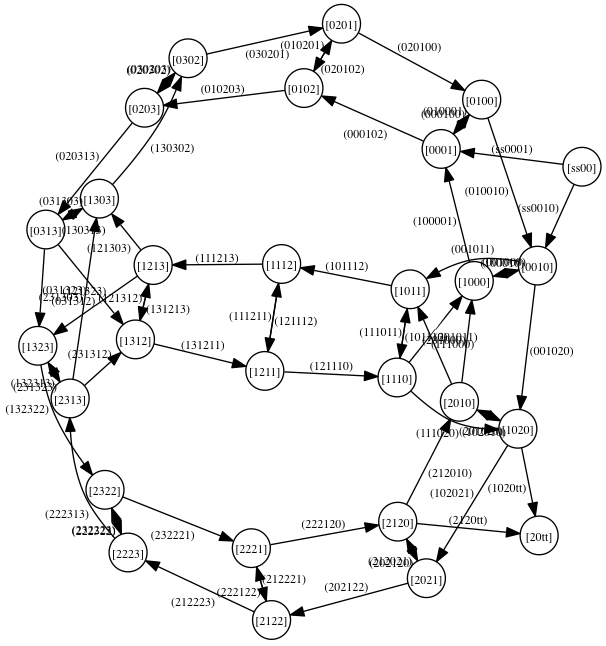
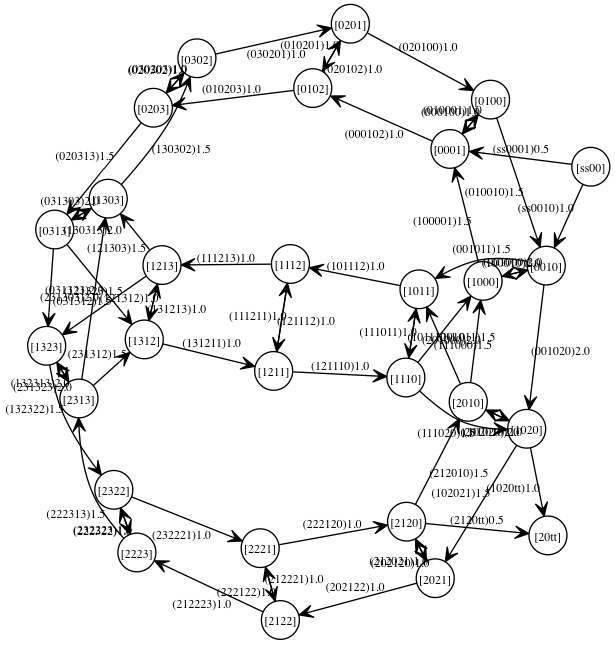
added dual edge weights

Changed region(s): [[0.0297, 0.0, 1.0, 0.9907], [0.6238, 0.0619, 0.7426, 0.1238]]

diff --git a/src/graphs/graph_test.py b/src/graphs/graph_test.py
@@ -23,6 +23,7 @@ class AisleGraph(object):
         self.add_node_labels()
         self.add_edge_weights()
         self.node = self.G.node
+        self.edge = self.G.edge
 
     def add_edge_weights(self):
         for u,v in self.G.edges():
@@ -108,9 +109,8 @@ class DualGraph(object):
         for edge in self.aisle_graph.edges():
             self.add_dual_node(edge)
 
-    def add_dual_node(self, edge):
-        s, t = edge
-        slabel = self.aisle_graph.node[s]['label']
+    def add_dual_node(self, primal_edge):
+        s, t = primal_edge
         label = "[{}{}]".format(
             self.aisle_graph.node[s]['label'],
             self.aisle_graph.node[t]['label']
@@ -129,15 +129,43 @@ class DualGraph(object):
         return n0[1] == n1[0]
 
     def add_dual_edge(self, s, t):
-        label = "({}{})".format(
-            self.dual_graph.node[s]['label'].strip('[]'),
-            self.dual_graph.node[t]['label'].strip('[]')[2:],
+        start, mid, end = self.edge_to_primal_nodes((s, t))
+        label = "({}{}{})".format(
+            self.aisle_graph.node[start]['label'],
+            self.aisle_graph.node[mid]['label'],
+            self.aisle_graph.node[end]['label'],
         )
-        self.dual_graph.add_edge(s, t, label=label)
+        weight = self.dual_edge_weight(s, t)
+        self.dual_graph.add_edge(s, t,
+                                 label=(label + str(weight)),
+                                 weight=weight)
+
+    def dual_edge_weight(self, s, t):
+        """ returns the weight of a dual edge, based on the corresponding
+        primal edge weights """
+        ws = self.node_to_primal_edge(s)[-1]['weight']
+        wt = self.node_to_primal_edge(t)[-1]['weight']
+        return (ws + wt) / 2.
+
+    def node_to_primal_edge(self, dual_node):
+        """ returns the edge (with data) in the primal graph that corresponds
+        to the dual node """
+        s, t = dual_node
+        return s, t, self.aisle_graph.edge[s][t]
+
+    def edge_to_primal_nodes(self, dual_edge):
+        """ returns the three primal nodes (with data) that corresond to a
+        single dual edge """
+        s, t = dual_edge
+        start, mid0, attr = self.node_to_primal_edge(s)
+        mid1, end, attr = self.node_to_primal_edge(t)
+        assert mid0 == mid1
+        return start, mid0, end
 
     def draw(self, filename, node_labels=True):
         A = nx.to_agraph(self.dual_graph)
         A.edge_attr.update(fontsize = 9,
+                           arrowhead = "vee",
                            constraint = False)
 
         A.graph_attr.update(overlap = False,
@@ -149,21 +177,6 @@ class DualGraph(object):
                                fixedsize = True,)
         else:
             A.node_attr['shape'] = 'point'
-
-        # nodes_per_aisle = self.aisle_graph.nodes_per_aisle
-        # aisle_count = self.aisle_graph.aisle_count
-        # vertical_subgraph = []
-        # for l in range(nodes_per_aisle):
-        #     vertical_subgraph.append(((0, l), (0, l+1)))
-        #     subgraph = []
-        #     for a in range(aisle_count):
-        #             subgraph.extend([((a, l), (a, l+1)),
-        #                              ((a, l+1), (a, l))])
-        #     S = A.add_subgraph(subgraph, rank="same")
-        #     S = A.add_subgraph(vertical_subgraph, rank="sink", rank_dir="LR")
-
-        # for a in range(aisle_count):
-        #     pass
 
         A.draw(filename, prog='neato')
         return A
